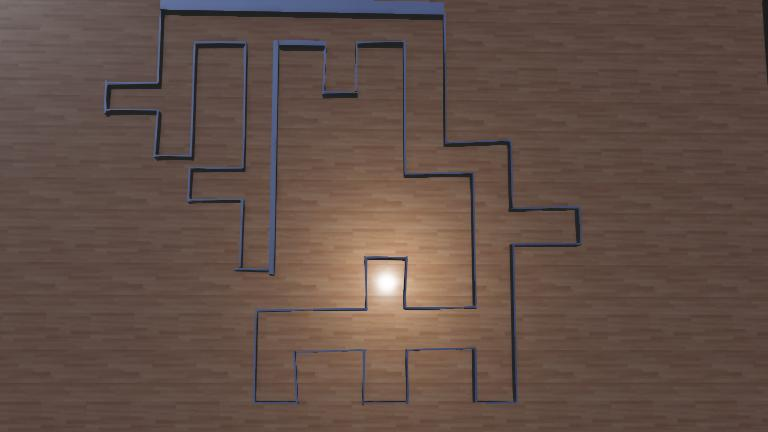
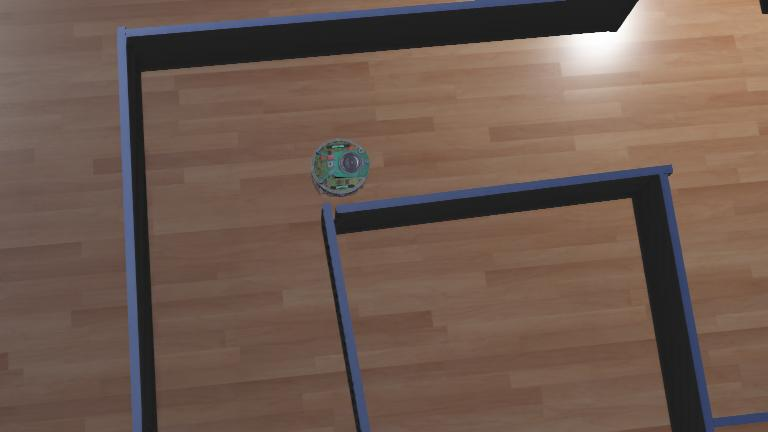
new changes

diff --git a/controllers/robot_controller/movement.c b/controllers/robot_controller/movement.c
@@ -1,0 +1,61 @@
+/*
+ * File:          robot_controller.c
+ * Date:
+ * Description:
+ * Author:
+ * Modifications:
+ */
+
+/*
+ * You may need to add include files like <webots/distance_sensor.h> or
+ * <webots/motor.h>, etc.
+ */
+#include <webots/robot.h>
+
+/*
+ * You may want to add macros here.
+ */
+#define TIME_STEP 64
+
+/*
+ * This is the main program.
+ * The arguments of the main function can be specified by the
+ * "controllerArgs" field of the Robot node
+ */
+int main(int argc, char **argv) {
+  /* necessary to initialize webots stuff */
+  wb_robot_init();
+
+  /*
+   * You should declare here WbDeviceTag variables for storing
+   * robot devices like this:
+   *  WbDeviceTag my_sensor = wb_robot_get_device("my_sensor");
+   *  WbDeviceTag my_actuator = wb_robot_get_device("my_actuator");
+   */
+
+  /* main loop
+   * Perform simulation steps of TIME_STEP milliseconds
+   * and leave the loop when the simulation is over
+   */
+  while (wb_robot_step(TIME_STEP) != -1) {
+    /*
+     * Read the sensors :
+     * Enter here functions to read sensor data, like:
+     *  double val = wb_distance_sensor_get_value(my_sensor);
+     */
+
+    /* Process sensor data here */
+
+    /*
+     * Enter here functions to send actuator commands, like:
+     * wb_motor_set_position(my_actuator, 10.0);
+     */
+  };
+
+  /* Enter your cleanup code here */
+
+  /* This is necessary to cleanup webots resources */
+  wb_robot_cleanup();
+
+  return 0;
+}
